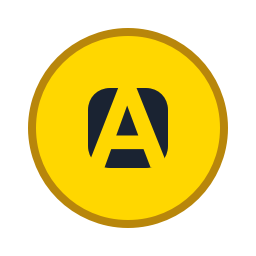
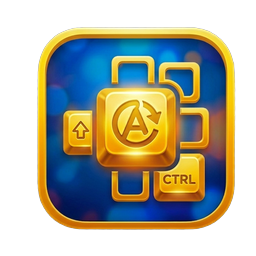
Aplicar app_icon.png como ícone do app com transparência preservada

diff --git a/main.py b/main.py
@@ -430,6 +430,12 @@ class ConfigWindow(QMainWindow):
 
     def init_ui(self):
         self.setWindowTitle(f"{APP_NAME} - Configuração")
+        # Set window icon
+        icon_path = Path(__file__).parent / "app_icon.png"
+        if not icon_path.exists():
+            icon_path = Path(__file__).parent / "icons" / "amarelo-keys.png"
+        if icon_path.exists():
+            self.setWindowIcon(QIcon(str(icon_path)))
         self.setMinimumSize(750, 550)
         self.setWindowFlags(Qt.Window)
         self.setStyleSheet("""
@@ -534,28 +540,10 @@ class ConfigWindow(QMainWindow):
         self.tray = QSystemTrayIcon(self)
         self.tray.setToolTip(APP_NAME)
 
-        icon_path = Path(__file__).parent / "icons" / "tray-icon.png"
-        if icon_path.exists():
-            self.tray.setIcon(QIcon(str(icon_path)))
-        else:
-            pixmap = QPixmap(64, 64)
-            pixmap.fill(QColor("#FFC107"))
-            self.tray.setIcon(QIcon(pixmap))
-
-        menu = QMenu()
-        menu.addAction("Abrir Configuração", self.show_config)
-        menu.addSeparator()
-        menu.addAction("Sair", self.quit_app)
-        self.tray.setContextMenu(menu)
-
-        self.tray.show()
-        self.tray.activated.connect(self.on_tray_activate)
-
-    def setup_tray(self):
-        self.tray = QSystemTrayIcon(self)
-        self.tray.setToolTip(APP_NAME)
-
-        icon_path = Path(__file__).parent / "icons" / "tray-icon.png"
+        # Try app_icon.png first (preserves transparency), then tray-icon.png
+        icon_path = Path(__file__).parent / "app_icon.png"
+        if not icon_path.exists():
+            icon_path = Path(__file__).parent / "icons" / "tray-icon.png"
         if icon_path.exists():
             self.tray.setIcon(QIcon(str(icon_path)))
         else:
